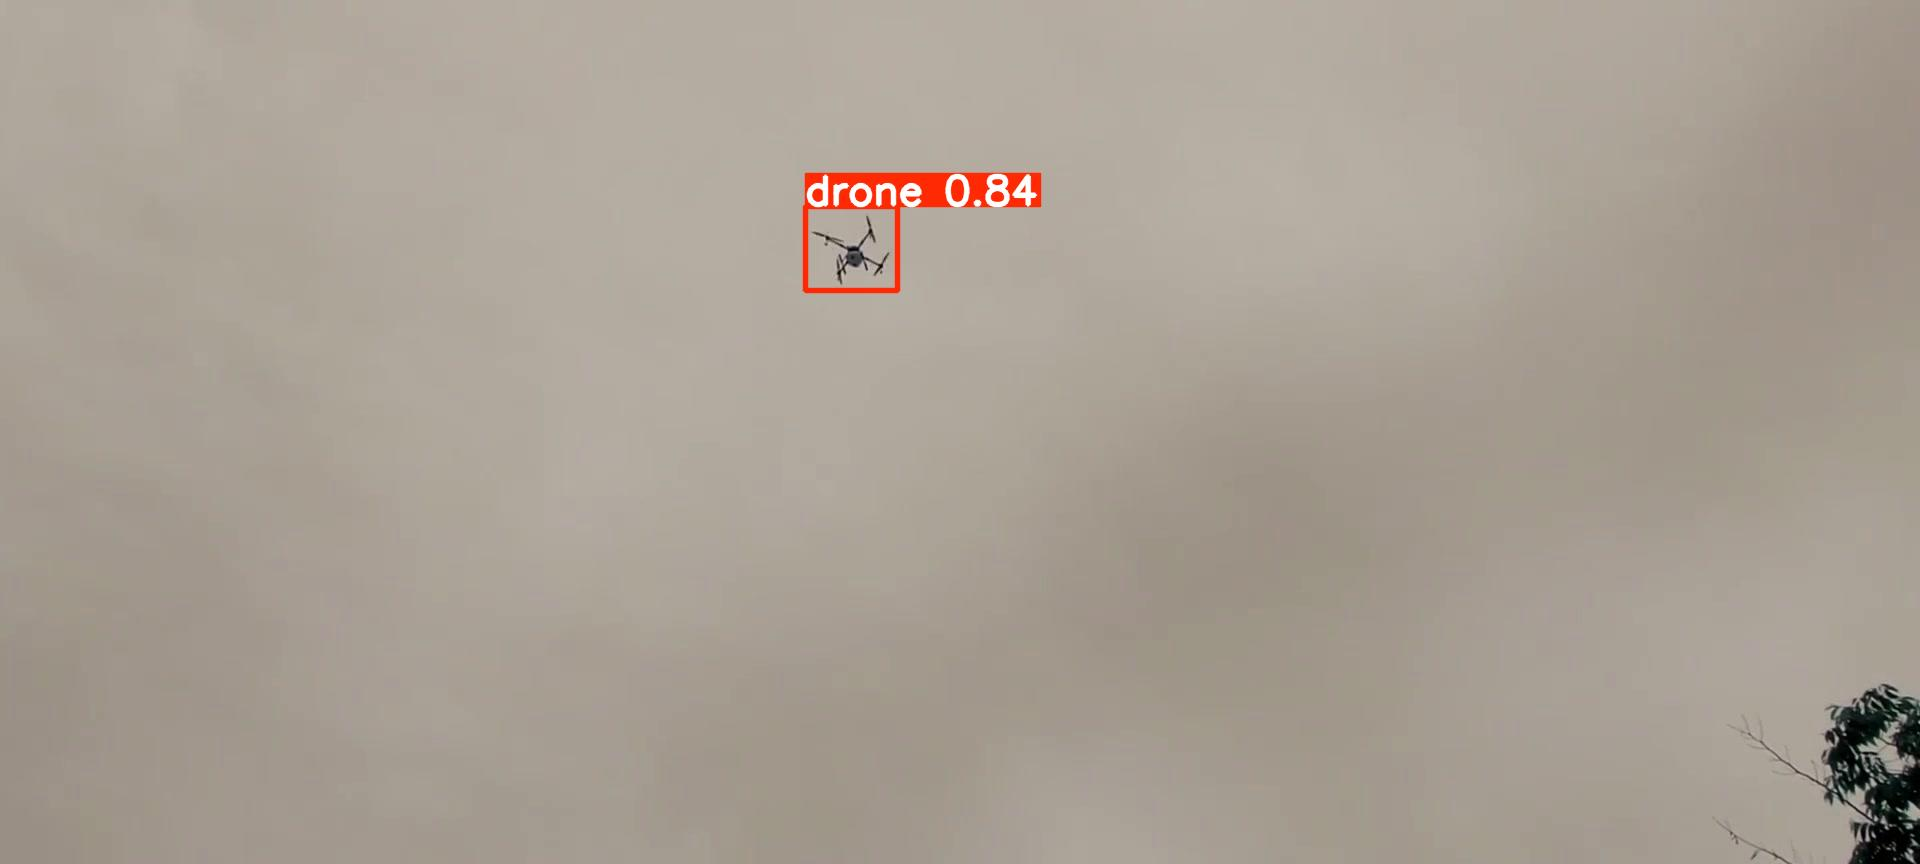
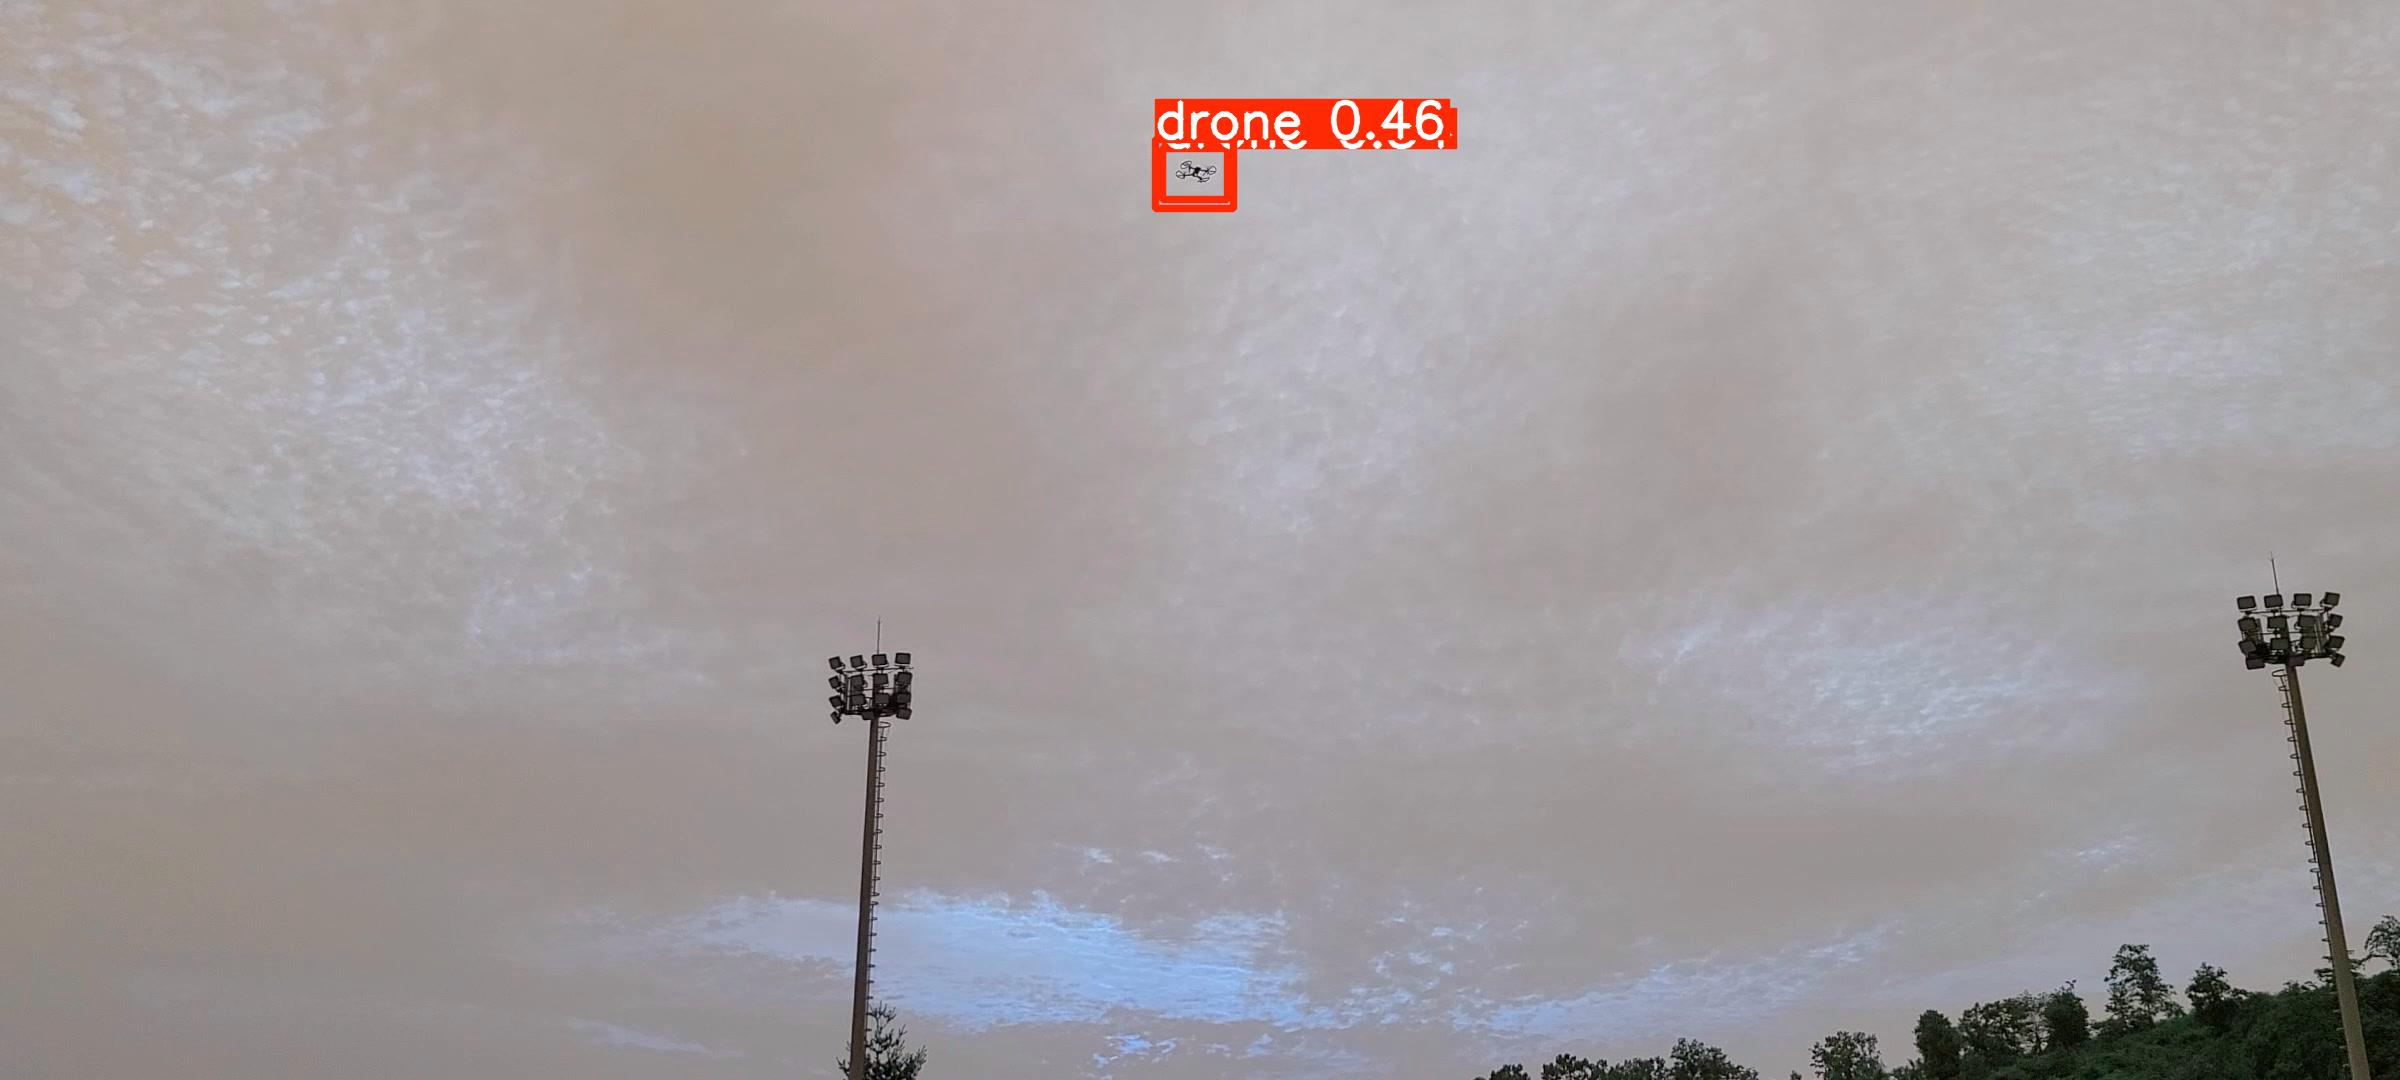
Fixed Image issue

diff --git a/frontend/src/App.jsx b/frontend/src/App.jsx
@@ -53,8 +53,18 @@ function App() {
       }
       setDetected(true);
       setDetectorConfidence(response.data.confidence);
-      setDetectedImage("http://127.0.0.1:8000/" + response.data.detected_image);
-      setCropImage("http://127.0.0.1:8000/" + response.data.crop_image);
+      setDetectedImage(
+        "http://127.0.0.1:8000/" +
+        response.data.detected_image +
+        "?t=" +
+        Date.now()
+      );
+      setCropImage(
+        "http://127.0.0.1:8000/" +
+        response.data.crop_image +
+        "?t=" +
+        Date.now()
+      );
     } catch (error) {
       console.error(error);
       alert("Detection Failed");

diff --git a/backend/detector/detect.py b/backend/detector/detect.py
@@ -1,6 +1,9 @@
 from ultralytics import YOLO
 from PIL import Image
 import os
+import uuid
+
+uid = str(uuid.uuid4())[:8]
 
 # Load detector model
 model = YOLO("detector/best.pt")
@@ -34,13 +37,13 @@ def detect(image_path):
 
     os.makedirs("outputs", exist_ok=True)
 
-    crop_path = "outputs/crop.jpg"
+    crop_path = f"outputs/crop_{uid}.jpg"
 
     crop.save(crop_path)
 
     plotted = result.plot()
 
-    detected_path = "outputs/detected.jpg"
+    detected_path = f"outputs/detected_{uid}.jpg"
 
     Image.fromarray(plotted).save(detected_path)
 